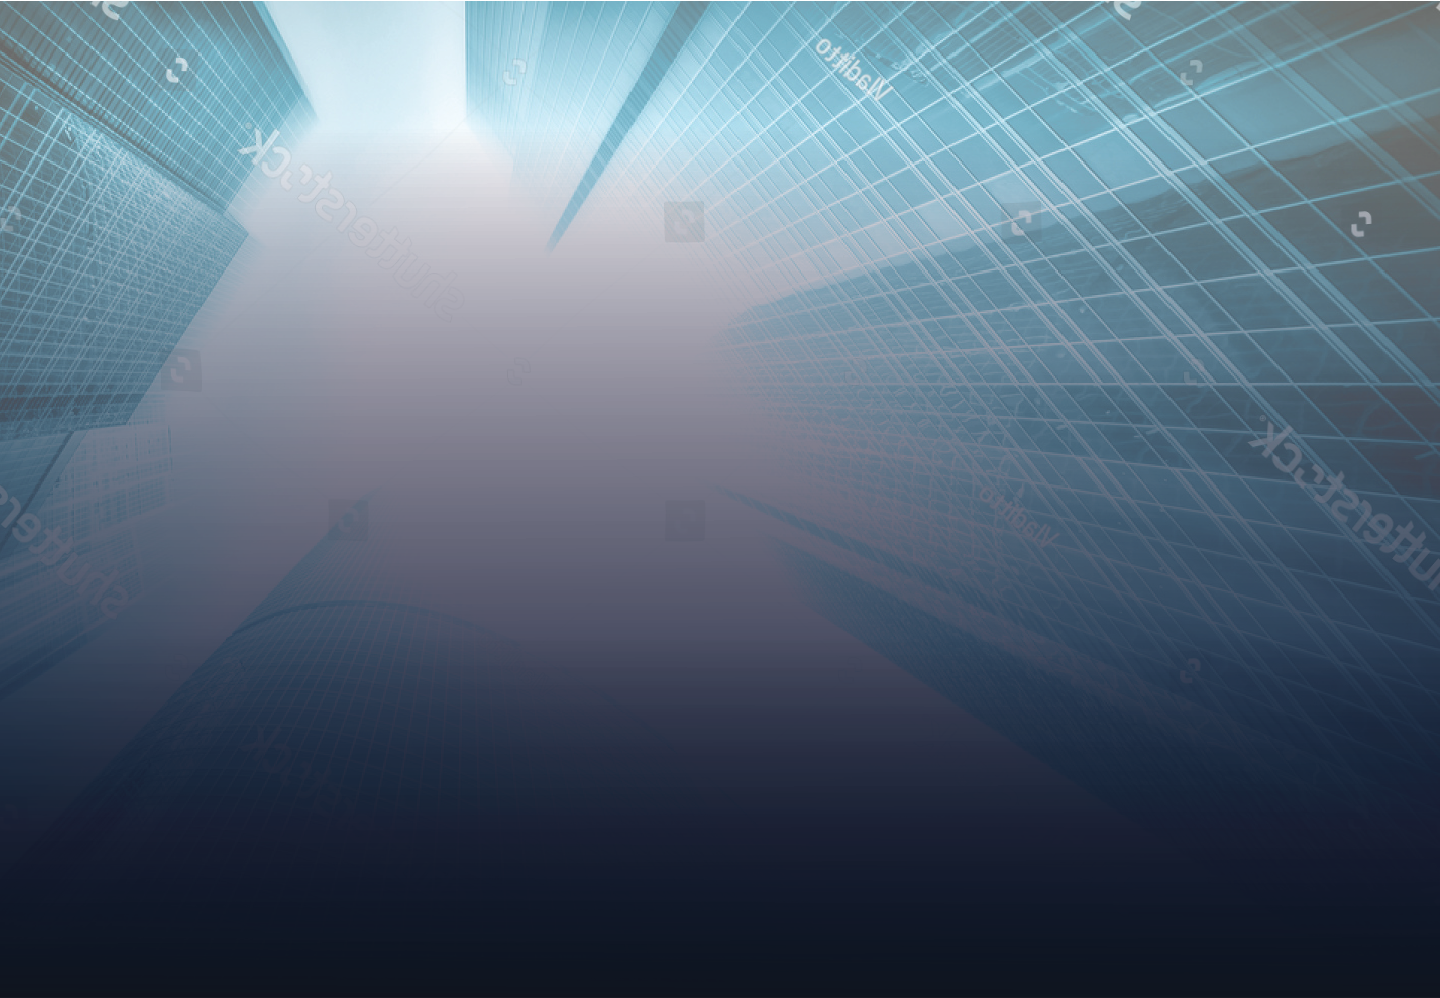
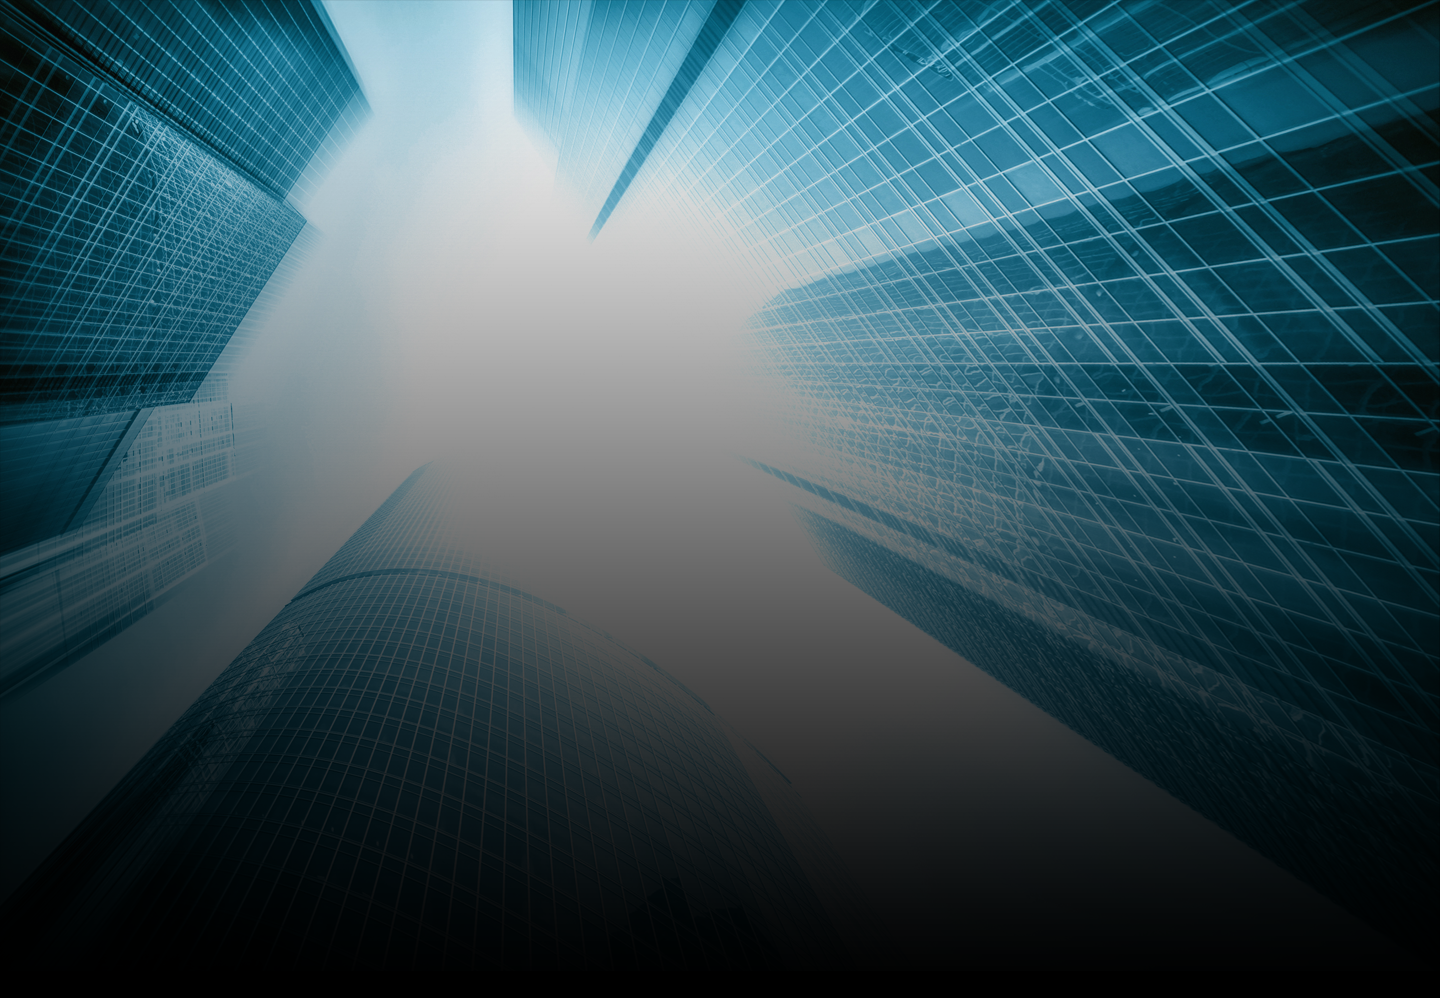
parallax

diff --git a/js/jquery.paroller.min.js b/js/jquery.paroller.min.js
@@ -1,0 +1,1 @@
+!function(r){"use strict";"function"==typeof define&&define.amd?define("parollerjs",["jquery"],r):"object"==typeof module&&"object"==typeof module.exports?module.exports=r(require("jquery")):r(jQuery)}(function(m){"use strict";var g=!1,w=function(){g=!1},v=function(r,t){return r.css({"background-position":"center "+-t+"px"})},x=function(r,t){return r.css({"background-position":-t+"px center"})},b=function(r,t,o){return"none"!==o||(o=""),r.css({"-webkit-transform":"translateY("+t+"px)"+o,"-moz-transform":"translateY("+t+"px)"+o,transform:"translateY("+t+"px)"+o,transition:"transform linear","will-change":"transform"})},k=function(r,t,o){return"none"!==o||(o=""),r.css({"-webkit-transform":"translateX("+t+"px)"+o,"-moz-transform":"translateX("+t+"px)"+o,transform:"translateX("+t+"px)"+o,transition:"transform linear","will-change":"transform"})},y=function(r,t,o){var n=r.data("paroller-factor"),a=n||o.factor;if(t<576){var e=r.data("paroller-factor-xs"),i=e||o.factorXs;return i||a}if(t<=768){var c=r.data("paroller-factor-sm"),f=c||o.factorSm;return f||a}if(t<=1024){var u=r.data("paroller-factor-md"),s=u||o.factorMd;return s||a}if(t<=1200){var l=r.data("paroller-factor-lg"),d=l||o.factorLg;return d||a}if(t<=1920){var p=r.data("paroller-factor-xl"),h=p||o.factorXl;return h||a}return a},z=function(r,t){return Math.round(r*t)},M=function(r,t,o,n){return Math.round((r-o/2+n)*t)},X=function(r){return r.css({"background-position":"unset"})},j=function(r){return r.css({transform:"unset",transition:"unset"})};m.fn.paroller=function(d){var p=m(window).height(),h=m(document).height();d=m.extend({factor:0,factorXs:0,factorSm:0,factorMd:0,factorLg:0,factorXl:0,type:"background",direction:"vertical"},d);return this.each(function(){var t=m(this),o=m(window).width(),n=t.offset().top,a=t.outerHeight(),r=t.data("paroller-type"),e=t.data("paroller-direction"),i=t.css("transform"),c=r||d.type,f=e||d.direction,u=y(t,o,d),s=z(n,u),l=M(n,u,p,a);"background"===c?"vertical"===f?v(t,s):"horizontal"===f&&x(t,s):"foreground"===c&&("vertical"===f?b(t,l,i):"horizontal"===f&&k(t,l,i)),m(window).on("resize",function(){var r=m(this).scrollTop();o=m(window).width(),n=t.offset().top,a=t.outerHeight(),u=y(t,o,d),s=Math.round(n*u),l=Math.round((n-p/2+a)*u),g||(window.requestAnimationFrame(w),g=!0),"background"===c?(X(t),"vertical"===f?v(t,s):"horizontal"===f&&x(t,s)):"foreground"===c&&r<=h&&(j(t),"vertical"===f?b(t,l):"horizontal"===f&&k(t,l))}),m(window).on("scroll",function(){var r=m(this).scrollTop();h=m(document).height(),s=Math.round((n-r)*u),l=Math.round((n-p/2+a-r)*u),g||(window.requestAnimationFrame(w),g=!0),"background"===c?"vertical"===f?v(t,s):"horizontal"===f&&x(t,s):"foreground"===c&&r<=h&&("vertical"===f?b(t,l,i):"horizontal"===f&&k(t,l,i))})})}});

diff --git a/partials/section-4.html b/partials/section-4.html
@@ -37,10 +37,23 @@
 				ทำให้มีความเชี่ยวชาญในการลงทุนในหุ้นกลุ่มนี้
 			</div>
 		</div>
+		<div
+			class="my-paroller desktop"
+			data-paroller-factor="-0.1"
+			data-paroller-type="foreground"
+			data-paroller-direction="vertical"
+		>
+			<img
+				src="/images/assets/Asset 19-crop.png"
+				alt="uobam"
+				class="animated-fadeIn"
+			/>
+		</div>
 		<img
 			src="/images/assets/Asset 19-crop.png"
 			alt="uobam"
-			class="animated-fadeIn"
+			class="animated-fadeIn mobile"
 		/>
 	</div>
 </div>
+<script src="/js/parallax.js"></script>

diff --git a/partials/section-2.html b/partials/section-2.html
@@ -1,9 +1,21 @@
 <div class="bg">
 	<div class="container">
+		<div
+			class="my-paroller desktop"
+			data-paroller-factor="-0.1"
+			data-paroller-type="foreground"
+			data-paroller-direction="vertical"
+		>
+			<img
+				src="/images/assets/Asset 15-crop.png"
+				alt="uobam"
+				class="animated-fadeIn"
+			/>
+		</div>
 		<img
 			src="/images/assets/Asset 15-crop.png"
 			alt="uobam"
-			class="animated-fadeIn"
+			class="animated-fadeIn mobile"
 		/>
 		<div class="right">
 			<div class="leftover">
@@ -42,3 +54,4 @@
 		</div>
 	</div>
 </div>
+<script src="/js/parallax.js"></script>

diff --git a/css/style.css b/css/style.css
@@ -19,6 +19,7 @@
 	background-position: center;
 	background-repeat: no-repeat;
 	background-size: cover;
+	opacity: 0.6;
 }
 
 #section-1 .welcome-wrapper {
@@ -1279,4 +1280,18 @@ footer {
 .close:hover,
 .close:focus {
 	opacity: 0.8;
+}
+
+.mobile {
+	display: none;
+}
+
+@media only screen and (max-width: 1023px) {
+	.desktop {
+		display: none;
+	}
+
+	.mobile {
+		display: initial;
+	}
 }

diff --git a/index.html b/index.html
@@ -17,6 +17,7 @@
 		<script src="/js/jquery-3.3.1.min.js"></script>
 		<script src="/js/jquery.waypoints.min.js"></script>
 		<script src="/js/typed.min.js"></script>
+		<script src="/js/jquery.paroller.min.js"></script>
 		<!-- <script src="./js/jquery-uob.js"></script> -->
 		<!-- <script src="./js/uobam.js"></script> -->
 	</head>

diff --git a/content/uobam.html b/content/uobam.html
@@ -23,7 +23,7 @@
 	<body>
 		<header></header>
 		<section id="content">
-			<div class="bg"></div>
+			<div class="bg" style="background: url('/images/content/uobam.png');"></div>
 
 			<div class="container article">
 				<div class="date">05 พฤศจิกายน 2561</div>

diff --git a/js/parallax.js b/js/parallax.js
@@ -1,0 +1,1 @@
+$('.my-paroller').paroller();
